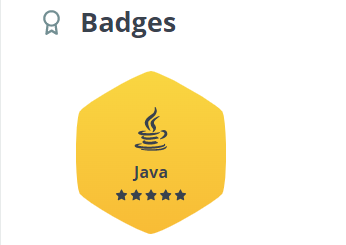
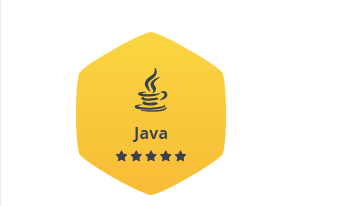
Training and Certificate

Changed region(s): [[0.2023, 0.0291, 0.6647, 0.8155], [0.2023, 0.6699, 0.6647, 0.9612], [0.1156, 0.0291, 0.1734, 0.1456]]

diff --git a/src/Component/AwardsHonors.js b/src/Component/AwardsHonors.js
@@ -6,35 +6,62 @@ export default function AwardsHonors() {
     <div id='scrollspyHeading5'>
       <nav className="navbar navbar-expand-lg  bg-secondary">
           <div className="container-fluid ">
-            <Link className="nav-link text-white" to='/' title="Shivangi Gupta">AwardsHonors</Link>      
+            <Link className="nav-link text-white" to='/' title="Shivangi Gupta">Trainings &amp; Certifications</Link>      
           </div> 
-        </nav>
+        </nav><br></br>
+        <h1 id='quoat'>Trainings &amp; Certifications</h1>
+            <hr/>
       <div className='row'>        
-        <div class="card col-md-4" style={{width: "18rem;"}}>
-          <img src="nptel.jpg" class="card-img-top" alt="..." />
+        <div class="card col-md-3" style={{ border:"none"}}>
+          <img src="linkedin.jpg" class="img-thumbnail card-img-top" style={{height:"16rem"}} alt="..." />
           <div class="card-body">
-            <p class="card-text">Some quick example text to build on the card title and make up the bulk of the card's content.</p>
+            <p class="card-text" id='quoat1'><h5>JavaScript Essential Training &amp; Certification</h5><br></br>LinkedIn Jul 2022</p>
           </div>
         </div> 
-        <div class="card col-md-4" style={{width: "18rem;", height: "18em;"}}>
-          <img src="OIP.jpg" class="card-img-top" alt="..." />
+        <div class="card col-md-3" style={{ border:"none"}}>
+          <img src="linkedin.jpg" class="img-thumbnail card-img-top" style={{height:"16rem"}} alt="..." />
           <div class="card-body">
-            <p class="card-text">Some quick example text to build on the card title and make up the bulk of the card's content.</p>
+            <p class="card-text" id='quoat1'><h5>React JS Training &amp; Certification</h5><br></br>LinkedIn Aug 2022</p>
           </div>
         </div>
-        <div class="card col-md-4" style={{width: "18rem;"}}>
-          <img src="rec.jpg" class="card-img-top" alt="..." />
+        <div class="card col-md-3" style={{ border:"none"}}>
+          <img src="internshala.jpg" class="img-thumbnail card-img-top" style={{height:"16rem"}} alt="..." />
           <div class="card-body">
-            <p class="card-text">Some quick example text to build on the card title and make up the bulk of the card's content.</p>
+            <p class="card-text" id='quoat1'><h5>Web development Training &amp; Certification</h5><br></br>Internshala Jun 2019 - jul 2019</p>
+          </div>
+        </div>  
+        <div class="card col-md-3" style={{ border:"none"}}>
+          <img src="internshala.jpg" class="img-thumbnail card-img-top" style={{height:"16rem"}} alt="..." />
+          <div class="card-body">
+            <p class="card-text" id='quoat1'><h5>Programming in Python Training &amp; Certification</h5><br></br>Internshala Jun 2019 - jul 2019</p>
           </div>
         </div>
-        <div class="card col-md-4" style={{width: "18rem;"}}>
-          <img src="internshala.jpg" class="card-img-top" alt="..." />
+        <div class="card col-md-3" style={{ border:"none"}}>
+          <img src="nptel.jpg" class="img-thumbnail card-img-top" style={{height:"16rem"}} alt="..." />
           <div class="card-body">
-            <p class="card-text">Some quick example text to build on the card title and make up the bulk of the card's content.</p>
+            <p class="card-text" id='quoat1'><h5>C Programming Training/Course &amp; Certification</h5><br></br>NPTEL Jan 2019 - April 2019</p>
           </div>
-        </div>      
-      </div>
+        </div> 
+          
+        <div class="card col-md-3" style={{ border:"none"}}>
+          <img src="internshala.jpg" class="img-thumbnail card-img-top" style={{height:"16rem"}} alt="..." />
+          <div class="card-body">
+            <p class="card-text" id='quoat1'><h5>Machine Learning Training &amp; Certification</h5><br></br>Internshala may 2020 - jun 2020</p>
+          </div>
+        </div>          
+        <div class="card col-md-3" style={{ border:"none"}}>
+          <img src="OIP.jpg" class="img-thumbnail card-img-top" style={{height:"16rem"}} alt="..." />
+          <div class="card-body">
+            <p class="card-text" id='quoat1'><h5>Qualifying Round 1 of National Engineering Olympiad 2.0 Certification</h5><br></br>National Engineering Olympiad Feb 2020</p>
+          </div>
+        </div>           
+        <div class="card col-md-3" style={{ border:"none"}}>
+          <img src="rec.jpg" class="img-thumbnail card-img-top" style={{height:"16rem"}} alt="..." />
+          <div class="card-body">
+            <p class="card-text" id='quoat1'><h5>Participation in National Level Hackathon Certification</h5><br></br>Rajkiya Engineering College, Banda Sep 2019</p>
+          </div>
+        </div>
+        </div>
     </div>
   )
 }

diff --git a/src/Component/TechStack.js b/src/Component/TechStack.js
@@ -1,66 +1,76 @@
 import React from 'react'
+import { Link } from 'react-router-dom'
 
 export default function () {
   return (
-    <div >
+    <div id='scrollspyHeading6'>
+      <nav className="navbar navbar-expand-lg  bg-secondary">
+          <div className="container-fluid ">
+            <Link className="nav-link text-white" to='/' title="Shivangi Gupta">Trainings &amp; Certifications</Link>      
+          </div> 
+        </nav><br></br>
         <h1 id='heading'>Coding Skills</h1>
      <p id='subHeading'>We are not born with skills but we can develop it by practice</p>
      
-      <br></br>
-          <div class="container">
-              <img src="Java1.png" alt="Avatar" class="image" />
+      <div className='row'id='quoat'>
+        <div className='card col-md-3'>
+          <div class="container1">
+              <img src="Java1.png" alt="Avatar" class="image" style={{width:"19rem" ,height:"16rem"}}/>
               <div class="overlay">
                 <div class="text">5 Star Badge in java on<br></br> "Hackerrank" Coding Plateform
                 <br></br>
                 <a href='https://www.hackerrank.com/shivangiguptaoc1'><button class="btn btn-secondary">Hackerrank Profile</button></a></div>
               </div>
           </div>
-       
-      <br></br>
-          
-          <div class="container">
-              <img src="DS.png" alt="Avatar" class="image" />
+        </div>
+      
+        <div className='card col-md-3'>
+          <div class="container1">
+              <img src="DS.png" alt="Avatar" class="image" style={{width:"19rem" ,height:"16rem"}}/>
               <div class="overlay">
                 <div class="text">2 Star Badge in Data Structure on <br></br>"Hackerearth" Coding Plateform
                 <br></br>
                 <a href='https://www.hackerearth.com/@shivangi722'><button class="btn btn-secondary">Hackerearth Profile</button></a></div>
               </div>
           </div>
+          </div>
       
    
      
-      <br></br>
-            <div class="container">
-              <img src="Language.png" alt="Avatar" class="image" />
+          <div className='card col-md-3'>
+            <div class="container1">
+              <img src="Language.png" alt="Avatar" class="image" style={{width:"19rem" ,height:"16rem"}}/>
               <div class="overlay">
               <div class="text">Language Proficiency in C++ and Python on <br></br>"Hackerearth" Coding Plateform
                 <br></br>
                 <a href='https://www.hackerearth.com/@shivangi722'><button class="btn btn-secondary">Hackerearth Profile</button></a></div>
               </div>
           </div>
+          </div>
       
-        <br></br>
-          
-          <div class="container">
-              <img src="solved.png" alt="Avatar" class="image" />
+        
+          <div className='card col-md-3'>
+          <div class="container1">
+              <img src="solved.png" alt="Avatar" class="image" style={{width:"19rem" ,height:"16rem"}}/>
               <div class="overlay">
               <div class="text">Solved Problems on <br></br>"Leetcode" Coding Plateform
                 <br></br>
                 <a href='https://leetcode.com/Shivangi_2000_Gupta/'><button class="btn btn-secondary">Leetcode Profile</button></a></div>
               </div>
           </div>
-        <br></br>
-        <div class="container">
-              <img src="java2.png" alt="Avatar" class="image" />
+          </div>
+          <div className='card col-md-3'>
+        <div class="container1">
+              <img src="java2.png" alt="Avatar" class="image" style={{width:"19rem" ,height:"16rem"}}/>
               <div class="overlay">
               <div class="text">Novice Badge on <br></br>"Hackerearth" Coding Plateform
                 <br></br>
                 <a href='https://www.hackerearth.com/@shivangi722'><button class="btn btn-secondary">Hackerearth Profile</button></a></div>
               </div>
           </div>
-     
+     </div>
         
-        
+          </div>
     </div>
   )
 }

diff --git a/src/Component/style.css b/src/Component/style.css
@@ -42,57 +42,20 @@ img:hover {
     box-shadow: 0 0 2px 1px rgba(0, 140, 186, 0.5);
   }
 
- 
-  
-  .image {
-    display: block;
-    width: 100%;
-    height: auto;
-  }
-  
-  .overlay {
-    position: absolute;
-    bottom: 50%;
-    left: 0;
-    right: 0;
-    background-color:#6c0e1c;
-    overflow: hidden;
-    width: 100%;
-    height: 0;
-    transition: .5s ease;
-  }
-  
-  .container:hover .overlay {
-    bottom: 0;
-    height: 100%;
-  }
-  
-  .text {
-    white-space: nowrap; 
-    color: white;
-    font-size: 20px;
-    position: absolute;
-    overflow: hidden;
-    top: 50%;
-    left: 50%;
-    transform: translate(-50%, -50%);
-    -ms-transform: translate(-50%, -50%);
-  }
+.a {
+  list-style-type: circle;
+  font-style: italic;
+}
 
-  .a {
-    list-style-type: circle;
-    font-style: italic;
-  }
+.main {
+  max-width: 1000px;
+  margin: auto;
+}
 
-  .main {
-    max-width: 1000px;
-    margin: auto;
-  }
-
-  .content {
-    background-color: white;
-    padding: 10px;
-  }
+.content {
+  background-color: white;
+  padding: 10px;
+}
  
   
 #body1 {
@@ -107,6 +70,46 @@ img:hover {
   -ms-transform: scale(2); /* IE 9 */
   -webkit-transform: scale(2); /* Safari 3-8 */
   transform: scale(2); 
+}
+
+.container1 {
+  position: relative;
+  width: 100%;
+}
+
+.image {
+  display: block;
+  width: 100%;
+  height: auto;
+}
+
+.overlay {
+  position: absolute;
+  bottom: 50%;
+  left: 0;
+  right: 0;
+  background-color: #6c0e1c;
+  overflow: hidden;
+  width: 100%;
+  height:0;
+  transition: .5s ease;
+}
+
+.container1:hover .overlay {
+  bottom: 0;
+  height: 100%;
+}
+
+.text {
+  color: white;
+  font-size: 20px;
+  position: absolute;
+  top: 50%;
+  left: 50%;
+  -webkit-transform: translate(-50%, -50%);
+  -ms-transform: translate(-50%, -50%);
+  transform: translate(-50%, -50%);
+  text-align: center;
 }
 
 

diff --git a/src/Component/Header.js b/src/Component/Header.js
@@ -5,6 +5,7 @@ import Education from './Education'
 import Home from './Home'
 import Projects from './Projects'
 import TechnicalSkills from './TechnicalSkills'
+import TechStack from './TechStack'
 import WorkExperience from './WorkExperience'
 
 export default function Header() {
@@ -26,7 +27,10 @@ export default function Header() {
       <a class="nav-link text-white" href="#scrollspyHeading4">Projects</a>
     </li>
     <li class="nav-item">
-      <a class="nav-link text-white" href="#scrollspyHeading5">AwardsHonors</a>
+      <a class="nav-link text-white" href="#scrollspyHeading5">Trainings &amp; Certifications</a>
+    </li>
+    <li class="nav-item">
+      <a class="nav-link text-white" href="#scrollspyHeading6">Coding Profiles</a>
     </li>
   </ul>
 </nav>
@@ -37,6 +41,7 @@ export default function Header() {
   <Education/>
   <Projects/>
   <AwardsHonors/>
+  <TechStack/>
 </div>
 </>
   )
